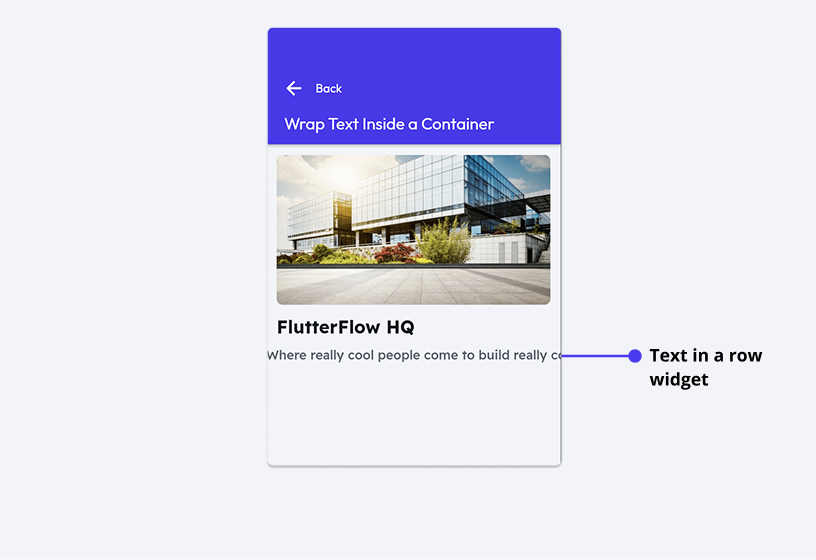
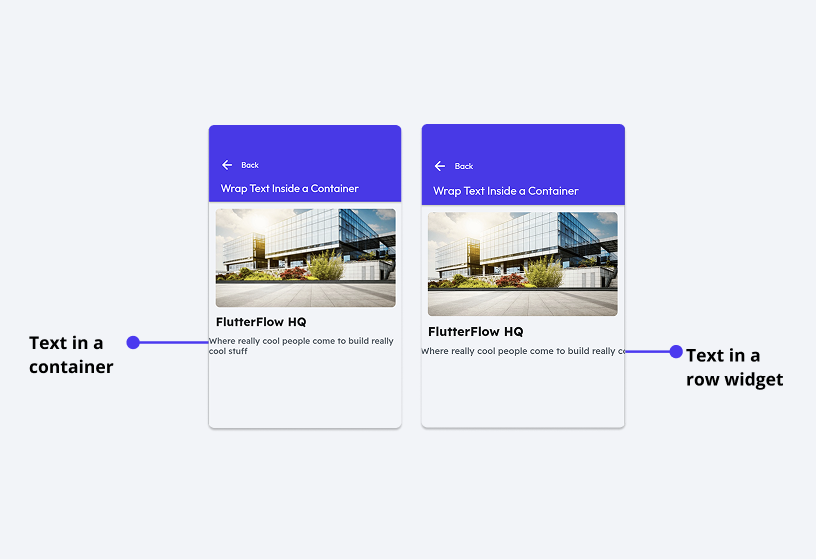
updated content, merged articles, updated asset

diff --git a/docs/ff-integrations/maps/geocoding.md b/docs/ff-integrations/maps/geocoding.md
@@ -111,10 +111,105 @@ You can implement geocoding in FlutterFlow in two main ways:
       }
     ```
 
-:::tip[Related Guides]
-- [Convert Device Location to Address](/convert-device-location-to-address) — Step-by-step guide for reverse geocoding a device’s coordinates.
-- (Coming soon) Forward Geocoding with FlutterFlow — Learn how to convert an address into coordinates.
-:::
+## Step-by-step guide for reverse geocoding a device’s coordinates.
+
+This guide focuses on **reverse geocoding**—turning a device’s latitude and longitude into a readable address (such as city or street name).
+
+You can achieve this in FlutterFlow using either:
+
+- **The Google Maps Geocoding API** (via API Calls)
+- **The `geocoding` Dart package** (via a Custom Action)
+
+Explore a live example in this **[FlutterFlow sample project](https://app.flutterflow.io/project/geo-track-rvndye)**.
+
+**Option 1: Using the Google Maps API**
+
+   1. **Enable the Geocoding API**
+
+      1. Go to the [Google Cloud Console](https://console.cloud.google.com/).
+      2. Select your project.
+      3. Search for and enable the **Geocoding API**.
+
+         ![](imgs/20250430121231440026.gif) 
+
+   2. **Add API Key to App State**
+
+      1. Go to **App State > Local State** in FlutterFlow.
+      2. Add a new variable:
+         - `apiKey` → Type: `String`
+      3. Paste your Geocoding API key as the default value.
+
+         ![](imgs/20250430121231812590.png)
+
+   3. **Create the API Call**
+
+      1. Navigate to **API Calls** in FlutterFlow.
+      2. Create a new API call with the following configuration:
+
+         - **Base URL**:  
+         ```js
+         https://maps.googleapis.com/maps/api/geocode/json
+         ```
+         - **Method**: `GET`
+
+      3. Under **Variables**, add:
+         - `latlng` → Type: `String`
+         - `apiKey` → Type: `String`
+
+         ![](imgs/20250430121232082585.png)
+
+   4. Create a Custom Function (LatLng → String)
+
+      Create a custom function that accepts a `LatLng` value (device location) and returns a string in `"latitude,longitude"` format.
+
+      This will be used to populate the `latlng` variable in your API call.
+
+         ![](imgs/20250430121232452872.png)
+
+   5. **Run the API and Display the Result**
+
+      1. Add a button or trigger to run the API call.
+      2. Pass the following:
+         - `latlng`: From the custom function.
+         - `apiKey`: From local state.
+      3. From the API response, extract the address using a **JSON Path**.
+
+         Example JSON Path for city name:
+            ```json
+            $.results[0].address_components[1].long_name
+            ```
+      4. Bind the extracted value to a `Text` widget.
+
+**Option 2: Using the `geocoding` Dart Package**
+
+   If you prefer to use Flutter's native functionality, you can achieve the same result using the geocoding Dart package in a custom action.
+
+   1. **Add the Package**
+      Add the dependency to your project’s pubspec.yaml file:
+
+      ```js
+      dependencies:
+      geocoding: ^2.1.0
+      ```
+
+   2. **Create a Custom Action**
+      - Create a new custom action.
+      - Add a parameter: LatLng location.
+   3. Use the geocoding package to convert the coordinates into a readable address.
+
+      Sample code:
+
+      ```js
+      import 'package:geocoding/geocoding.dart';
+
+      Future<String> getAddressFromLocation(LatLng location) async {
+         final placemarks = await placemarkFromCoordinates(location.latitude, location.longitude);
+         final place = placemarks.first;
+         return '${place.locality}, ${place.country}';
+      }
+
+      ```
+   4. Return the result and bind it to a Text widget.
 
 
 :::tip

diff --git a/docs/intro/ff-ui/builder.md b/docs/intro/ff-ui/builder.md
@@ -15,23 +15,6 @@ On opening the project, you'll see the App Builder, which consists of four main 
 
 ![navigation-menu.avif](imgs/navigation-menu.avif)
 
-:::warning[Editor Performance Does Not Affect App Builds]
-Slow performance in the FlutterFlow editor, such as UI lag or long loading times, may occur in large projects or long sessions, but **this does not impact the performance of your final app build**.
-
-Editor slowness is typically caused by:
-- Large projects with many pages or custom functions.
-- Long text blocks typed directly into the editor.
-- Accumulated browser cache from extended sessions.
-
-To improve responsiveness:
-- Draft long content externally before pasting into the editor.
-- Restart your browser regularly.
-- Use the macOS app version for better UI performance.
-- Close unused pages or widgets to free up memory.
-
-The compiled app’s performance depends on your app logic, code efficiency, and device resources—not the speed of the editor environment.
-:::
-
 ## Navigation Menu
 
 The Navigation Menu, located on the left side of the builder, allows you to switch between various FlutterFlow features. These include designing the UI, managing databases, setting up API, adjusting app settings, adding integrations, and more.
@@ -73,3 +56,19 @@ The Properties Panel will vary slightly depending on the entity you have selecte
 - **[Page Properties](../../resources/ui/pages/pages-properties.md)** (when you have selected a Page)
 - **[Widget Properties](../../resources/ui/widgets/widget-properties.md)** (when you have selected any widget, including built-in components)
 
+:::warning[Editor Performance Does Not Affect App Builds]
+Slow performance in the FlutterFlow editor, such as UI lag or long loading times, may occur in large projects or long sessions, but **this does not impact the performance of your final app build**.
+
+Editor slowness is typically caused by:
+- Large projects with many pages or custom functions.
+- Long text blocks typed directly into the editor.
+- Accumulated browser cache from extended sessions.
+
+To improve responsiveness:
+- Draft long content externally before pasting into the editor.
+- Restart your browser regularly.
+- Use the macOS app version for better UI performance.
+- Close unused pages or widgets to free up memory.
+
+The compiled app’s performance depends on your app logic, code efficiency, and device resources—not the speed of the editor environment.
+:::

diff --git a/docs/resources/ui/widgets/composing-widgets/composing-widgets.md b/docs/resources/ui/widgets/composing-widgets/composing-widgets.md
@@ -38,3 +38,44 @@ Lazy loading means that the `ListView` only builds and renders the items that ar
 :::info[List & Grids]
 Learn about the advanced properties of **[Lists & Grids](list-grid.md)**. 
 :::
+
+**Example: Creating a Submenu Using Local State**
+
+This guide demonstrates how to implement a toggleable submenu in a FlutterFlow project using local state and conditional visibility logic.
+
+Follow the steps below to create a Submenu using Local State:
+
+   1. **Create a Local State Variable**  
+      - Add a boolean local state variable to your page.  
+      - This variable will control the visibility of the submenu (`true` = open, `false` = closed).
+
+   2. **Place the Submenu Inside a Stack**  
+      - Use a `Stack` widget to layer the submenu on top of the page content.  
+      - Position the submenu where you want it to appear.
+
+   3. **Control Visibility with Local State**  
+      - Apply a visibility condition on the submenu widget using the boolean state variable.  
+      - When the value is `true`, the submenu will be shown; when `false`, it will be hidden.
+
+   4. **Add Toggle Action to Menu Icon**  
+      - On the `onTap` event of the menu icon button, add a conditional action:  
+      - If the state variable is `false`, set it to `true`.  
+      - If it is `true`, set it to `false`.
+
+   5. **Close Menu When Item is Tapped**  
+      - After triggering any submenu action, set the local state variable to `false` to close the menu.
+
+   6. **Dismiss Menu When Tapping Page Background**  
+      - Wrap the main page content in a `GestureDetector`.  
+      - On tap, set the local state variable to `false` to close the menu when the user taps outside it.
+
+:::tip
+The `Stack` widget allows placing widgets on top of each other, which is essential for layering the submenu over other UI elements.
+:::
+
+:::info[Examples]
+- [Project Example](https://app.flutterflow.io/project/sub-menu-840l5q)
+- [Run Mode Preview](https://app.flutterflow.io/run/LfzBGTaef8WldndHa2x4)
+:::
+
+![](../built-in-widgets/imgs/20250430121319778896.gif)

diff --git a/docs/ff-integrations/authentication/firebase-auth/auth-actions.md b/docs/ff-integrations/authentication/firebase-auth/auth-actions.md
@@ -29,6 +29,24 @@ The Login action allows users to authenticate and gain access to your app. Login
 
 You typically add the login action to a button (e.g., "Login" or "Sign In") that collects user credentials via TextFields or third-party authentication triggers.
 
+**Supported Providers**
+    The following authentication providers can be used with the **Login [Action]**. Each link will guide you to the setup and usage details:
+
+        - **[Email Login](/integrations/authentication/firebase/email-login)**  
+        - **[Google OAuth Login](/integrations/authentication/firebase/google-oauth-login#enable-google-sign-in-provider-in-firebase)**  
+        - **[Apple Login (Supabase)](/integrations/authentication/supabase/apple)**  
+        - **[Phone Login](/integrations/authentication/firebase/phone)**  
+        - **[Facebook Login](/integrations/authentication/firebase/facebook)**  
+        - **[Anonymous Login](/integrations/authentication/firebase/anonymous-login)**  
+        - **[GitHub Login](/integrations/authentication/firebase/github#2-adding-github-login-action)**  
+        - **[JWT Token Login](/integrations/authentication/firebase/jwt-auth#1-add-login-api)**  
+        - **[Custom Auth Login](/integrations/authentication/custom-authentication)**  
+        - **[Supabase Auth Login](/integrations/authentication/supabase/initial-setup)**  
+
+:::note
+Each provider requires its own initial setup (e.g., enabling in Firebase or Supabase, configuring OAuth keys). Once configured, all providers use the same **Login [Action]** to sign in the user.
+:::
+
 ## Handling Invalid Login Credentials
 
 When a user enters incorrect login credentials, FlutterFlow automatically displays a `SnackBar` with an error message. This helps users understand why their login attempt failed without needing custom logic.

diff --git a/docs/resources/ui/widgets/basic-widgets/text.md b/docs/resources/ui/widgets/basic-widgets/text.md
@@ -143,9 +143,7 @@ When building responsive layouts, text may overflow its container if not properl
 6. **Optional: Handle Overflow Gracefully**  
    You can set the **Overflow** property to values like `ellipsis`, `clip`, or `fade` to determine how excess text is handled.
 
-    ![wrap-text-inside-row](../built-in-widgets/imgs/20250430121501151202.png)
-
-    ![wrap-text-inside-container](../built-in-widgets/imgs/20250430121501151203.png)
+    ![wrap-text-inside-row and inside container](../built-in-widgets/imgs/20250430121501151202.png)
 
     :::tip
     Wrapping long text in a `Row` requires the Text widget to be inside an `Expanded` or `Flexible` widget.
